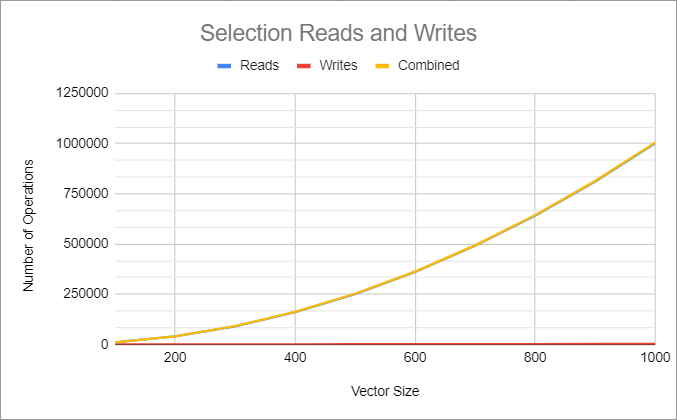
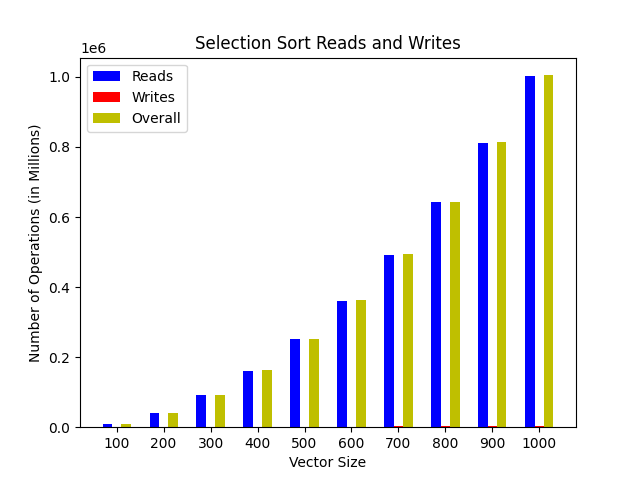
Graphs complete

diff --git a/sortingGraphs.py b/sortingGraphs.py
@@ -1,5 +1,6 @@
 import matplotlib.pyplot as plt
 
+# Bubble sort graph
 file = open("../data/bubbleData.txt", 'r')
 reads = []
 writes = []
@@ -14,15 +15,209 @@ for line in file:
 file.close()
 
 ax = plt.subplot(111)
-readSizes = range(85, 1001, 100)
-writeSizes = range(115, 1051, 100)
+xAxisTicks = range(100, 1001, 100)
+readSizes = range(80, 1001, 100)
+writeSizes = range(100, 1021, 100)
+overallSizes = range(120, 1041, 100)
 reads.reverse()
 writes.reverse()
-ax.bar(readSizes, reads, width=30, color='r', align='center')
-ax.bar(writeSizes, writes, width=30, color='b', align='center')
+overall = []
+for i in range(0, len(reads)):
+    overall.append(reads[i] + writes[i])
 
-plt.title('BubbleSort Reads and Writes (by vector size)')
+ax.bar(readSizes, reads, width=20, color='b', align='center')
+ax.bar(writeSizes, writes, width=20, color='r', align='center')
+ax.bar(overallSizes, overall, width=20, color='y', align='center')
+
+plt.title('Bubble Sort Reads and Writes')
 plt.xlabel('Vector Size')
+plt.xticks(xAxisTicks)
+plt.ylabel('Number of Operations (in Millions)')
+plt.legend(['Reads', 'Writes', 'Overall'])
+plt.savefig('../images/Bubble_Graph.png')
+plt.cla()
+
+# Selection sort graph
+file = open("../data/selectionData.txt", 'r')
+reads = []
+writes = []
+for line in file:
+    line = line.split(" ")
+    line[2] = line[2].strip('\n')
+    if line[1] == 'reads':
+        reads.append(int(line[2]))
+    else:
+        writes.append(int(line[2]))
+
+file.close()
+
+ax = plt.subplot(111)
+xAxisTicks = range(100, 1001, 100)
+readSizes = range(80, 1001, 100)
+writeSizes = range(100, 1021, 100)
+overallSizes = range(120, 1041, 100)
+reads.reverse()
+writes.reverse()
+overall = []
+for i in range(0, len(reads)):
+    overall.append(reads[i] + writes[i])
+
+ax.bar(readSizes, reads, width=20, color='b', align='center')
+ax.bar(writeSizes, writes, width=20, color='r', align='center')
+ax.bar(overallSizes, overall, width=20, color='y', align='center')
+
+plt.title('Selection Sort Reads and Writes')
+plt.xlabel('Vector Size')
+plt.xticks(xAxisTicks)
+plt.ylabel('Number of Operations (in Millions)')
+plt.legend(['Reads', 'Writes', 'Overall'])
+plt.savefig('../images/Selection_Graph.png')
+plt.cla()
+
+# Unstable Quick sort graph
+file = open("../data/quickData.txt", 'r')
+reads = []
+writes = []
+for line in file:
+    line = line.split(" ")
+    line[2] = line[2].strip('\n')
+    if line[1] == 'reads':
+        reads.append(int(line[2]))
+    else:
+        writes.append(int(line[2]))
+
+file.close()
+
+ax = plt.subplot(111)
+xAxisTicks = range(100, 1001, 100)
+readSizes = range(80, 1001, 100)
+writeSizes = range(100, 1021, 100)
+overallSizes = range(120, 1041, 100)
+reads.reverse()
+writes.reverse()
+overall = []
+for i in range(0, len(reads)):
+    overall.append(reads[i] + writes[i])
+
+ax.bar(readSizes, reads, width=20, color='b', align='center')
+ax.bar(writeSizes, writes, width=20, color='r', align='center')
+ax.bar(overallSizes, overall, width=20, color='y', align='center')
+
+plt.title('Unstable Quick Sort Reads and Writes')
+plt.xlabel('Vector Size')
+plt.xticks(xAxisTicks)
 plt.ylabel('Number of Operations')
-plt.legend(['Reads', 'Writes'])
-plt.show()
+plt.legend(['Reads', 'Writes', 'Overall'])
+plt.savefig('../images/Unstable_Quick_Graph.png')
+plt.cla()
+
+# Heap sort graph
+file = open("../data/heapData.txt", 'r')
+reads = []
+writes = []
+for line in file:
+    line = line.split(" ")
+    line[2] = line[2].strip('\n')
+    if line[1] == 'reads':
+        reads.append(int(line[2]))
+    else:
+        writes.append(int(line[2]))
+
+file.close()
+
+ax = plt.subplot(111)
+xAxisTicks = range(100, 1001, 100)
+readSizes = range(80, 1001, 100)
+writeSizes = range(100, 1021, 100)
+overallSizes = range(120, 1041, 100)
+reads.reverse()
+writes.reverse()
+overall = []
+for i in range(0, len(reads)):
+    overall.append(reads[i] + writes[i])
+
+ax.bar(readSizes, reads, width=20, color='b', align='center')
+ax.bar(writeSizes, writes, width=20, color='r', align='center')
+ax.bar(overallSizes, overall, width=20, color='y', align='center')
+
+plt.title('Heap Sort Reads and Writes')
+plt.xlabel('Vector Size')
+plt.xticks(xAxisTicks)
+plt.ylabel('Number of Operations (in Millions)')
+plt.legend(['Reads', 'Writes', 'Overall'])
+plt.savefig('../images/Heap_Graph.png')
+plt.cla()
+
+# Stable Quick sort graph (two-sort part 1)
+file = open("../data/firstTwoSortData.txt", 'r')
+reads = []
+writes = []
+for line in file:
+    line = line.split(" ")
+    line[2] = line[2].strip('\n')
+    if line[1] == 'reads':
+        reads.append(int(line[2]))
+    else:
+        writes.append(int(line[2]))
+
+file.close()
+
+ax = plt.subplot(111)
+xAxisTicks = range(100, 1001, 100)
+readSizes = range(80, 1001, 100)
+writeSizes = range(100, 1021, 100)
+overallSizes = range(120, 1041, 100)
+reads.reverse()
+writes.reverse()
+overall = []
+for i in range(0, len(reads)):
+    overall.append(reads[i] + writes[i])
+
+ax.bar(readSizes, reads, width=20, color='b', align='center')
+ax.bar(writeSizes, writes, width=20, color='r', align='center')
+ax.bar(overallSizes, overall, width=20, color='y', align='center')
+
+plt.title('Two Sort with first field: Stable Quick Sort Reads and Writes')
+plt.xlabel('Vector Size')
+plt.xticks(xAxisTicks)
+plt.ylabel('Number of Operations')
+plt.legend(['Reads', 'Writes', 'Overall'])
+plt.savefig('../images/Stable_Quick_Graph.png')
+plt.cla()
+
+# Stable Quick sort graph (two-sort part 1)
+file = open("../data/secondTwoSortData.txt", 'r')
+reads = []
+writes = []
+for line in file:
+    line = line.split(" ")
+    line[2] = line[2].strip('\n')
+    if line[1] == 'reads':
+        reads.append(int(line[2]))
+    else:
+        writes.append(int(line[2]))
+
+file.close()
+
+ax = plt.subplot(111)
+xAxisTicks = range(100, 1001, 100)
+readSizes = range(80, 1001, 100)
+writeSizes = range(100, 1021, 100)
+overallSizes = range(120, 1041, 100)
+reads.reverse()
+writes.reverse()
+overall = []
+for i in range(0, len(reads)):
+    overall.append(reads[i] + writes[i])
+
+ax.bar(readSizes, reads, width=20, color='b', align='center')
+ax.bar(writeSizes, writes, width=20, color='r', align='center')
+ax.bar(overallSizes, overall, width=20, color='y', align='center')
+
+plt.title('Two Sort with second field: Stable Quick Sort Reads and Writes')
+plt.xlabel('Vector Size')
+plt.xticks(xAxisTicks)
+plt.ylabel('Number of Operations (in Millions)')
+plt.legend(['Reads', 'Writes', 'Overall'])
+plt.savefig('../images/Two-Sort_Graph.png')
+plt.cla()
